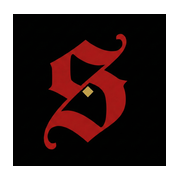
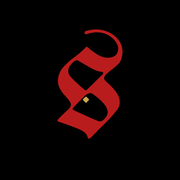
Use logomark on workout summary screen

diff --git a/src/components/WorkoutSummary.tsx b/src/components/WorkoutSummary.tsx
@@ -60,11 +60,11 @@ export function WorkoutSummary({
         {/* Logo + app name */}
         <div className="mb-6">
           <img
-            src="/icon-192x192.png"
+            src="/sanctum-logomark.png"
             alt="Sanctum logo"
-            className="w-16 h-16 mx-auto mb-2"
+            className="w-24 h-24 mx-auto mb-2"
           />
-          <h1 className="font-gothic text-2xl text-blood-500">sanctum</h1>
+          <h1 className="font-gothic text-3xl text-blood-500">sanctum</h1>
         </div>
 
         {/* Closing line */}
